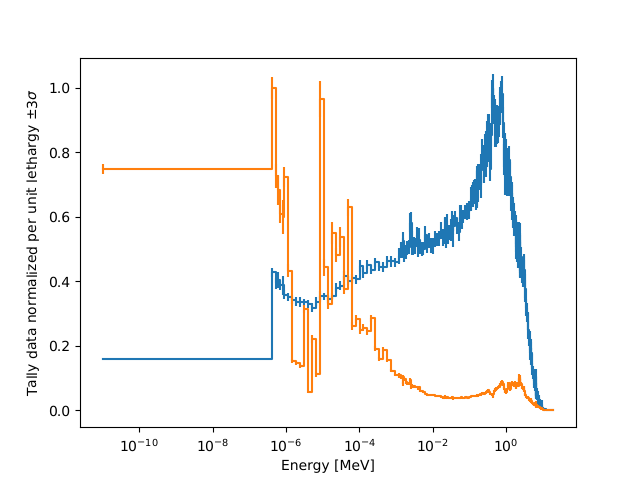
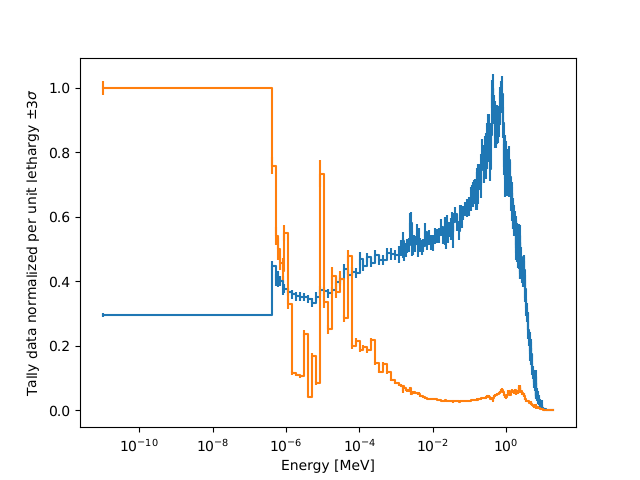
Fix lethargy normalization in spectrum plots (#530)
Use upper boundary of energy groups not middle boundary

Closes #529

Pull request: BUG Fix lethargy normalization in spectrum plots
Use upper boundary of energy groups not middle boundary

Closes #529

diff --git a/src/serpentTools/detectors.py b/src/serpentTools/detectors.py
@@ -567,10 +567,11 @@ class Detector(NamedObject):
         elif len(slicedTallies.shape) == 1:
             slicedTallies = slicedTallies.reshape(slicedTallies.size, 1)
 
+        # (n_groups, 3) where columns are lower, upper, and middle energy
         lowerE = self.grids['E'][:, 0]
         if normalize:
             lethBins = log(
-                divide(self.grids['E'][:, -1], lowerE))
+                divide(self.grids['E'][:, 1], lowerE))
             # Need to scale up the dimension of the energy grids to support
             # broadcasting -> (E, N) / (E, )
             slicedTallies /= lethBins[:, newaxis]